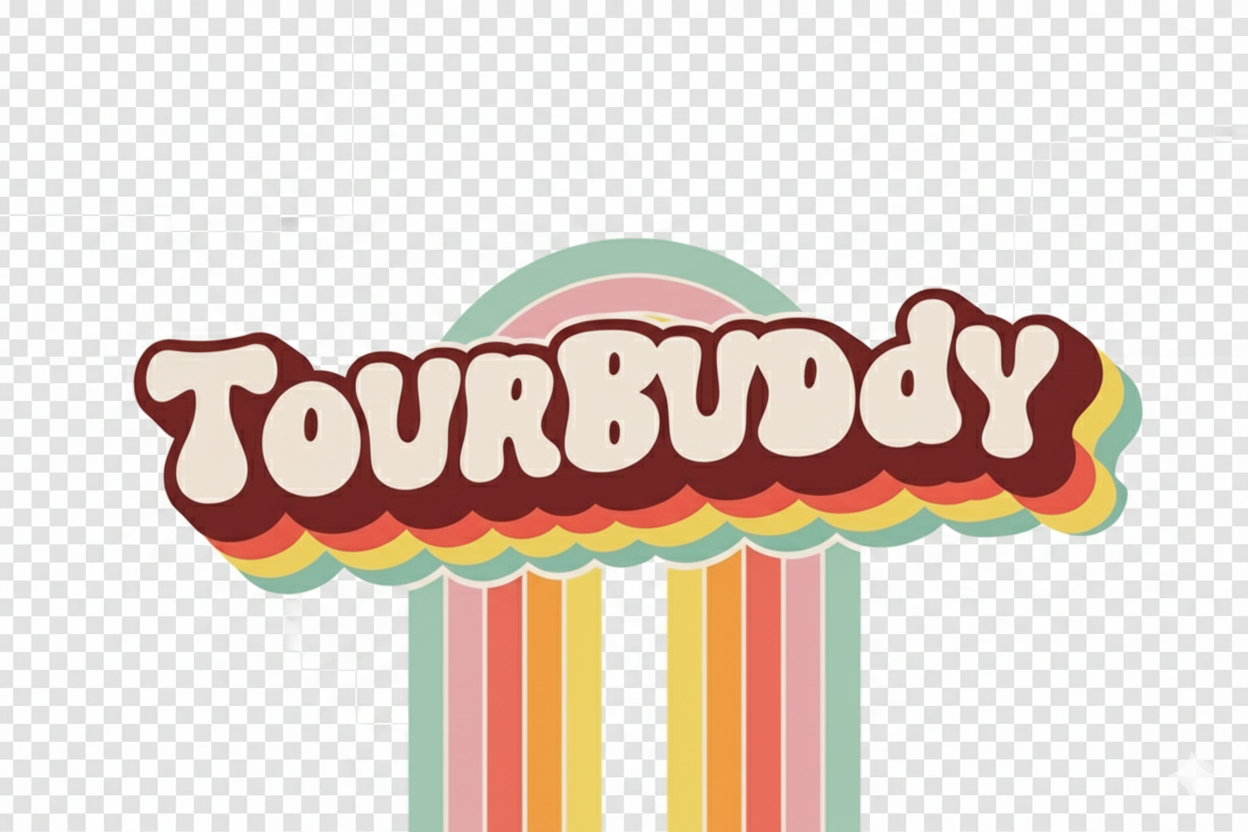
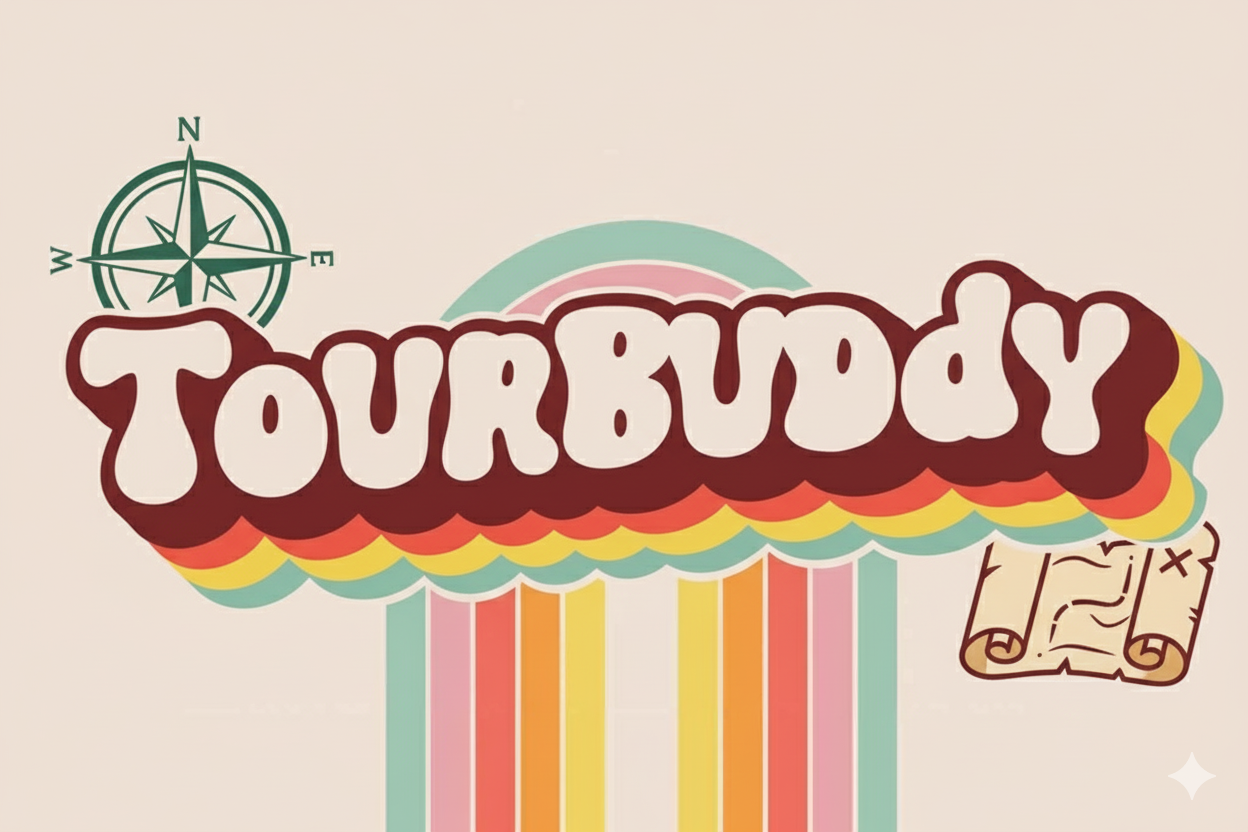
changes

diff --git a/src/components/SplashScreen.jsx b/src/components/SplashScreen.jsx
@@ -2,8 +2,6 @@
 import { useEffect, useState } from "react";
 import { useNavigate } from "react-router-dom";
 import "./SplashScreen.css";
-import CompassLogo from "../assets/compass.png";
-import MapLogo from "../assets/map.png";
 import TourBuddyFont from "../assets/tourbuddy-font.png";
 
 export default function SplashScreen() {
@@ -29,8 +27,7 @@ export default function SplashScreen() {
     <div className="splash-container">
       <div className={`logo-container ${animationClass}`}>
         <img src={TourBuddyFont} alt="TourBuddy Font" className="tourbuddy-font" />
-        <img src={CompassLogo} alt="Compass" className="compass" />
-        <img src={MapLogo} alt="Map" className="map" />
+    
       </div>
     </div>
   );

diff --git a/src/pages/BusinessLogin.jsx b/src/pages/BusinessLogin.jsx
@@ -159,7 +159,7 @@ export default function BusinessLogin() {
       </div>
 
       <div style={styles.rightSection}>
-        <h1 style={styles.formTitle}>Business Login</h1>
+        <h1 style={styles.formTitle}>Business Register</h1>
         
         <input
           type="text"
@@ -219,7 +219,7 @@ export default function BusinessLogin() {
         </div>
 
         <button onClick={handleLogin} style={styles.loginButton}>
-          Login
+          Registor Now!!!
         </button>
       </div>
     </div>
